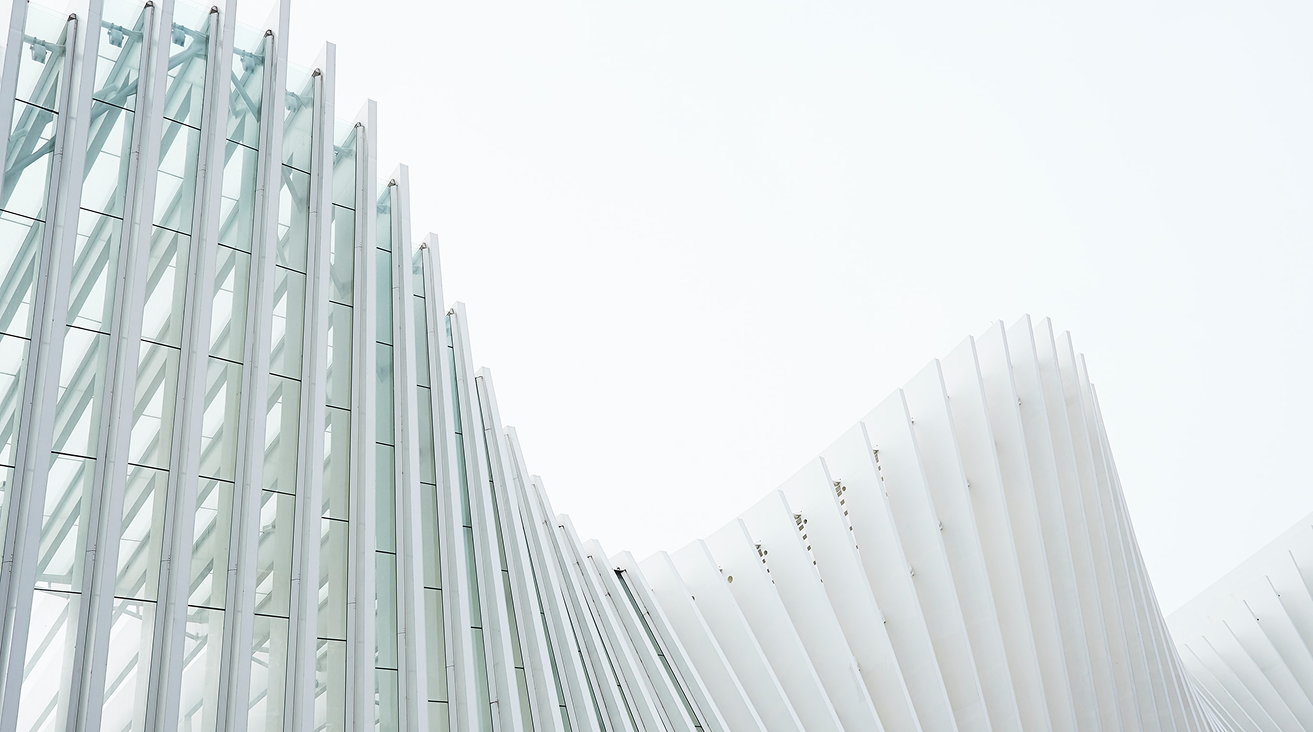
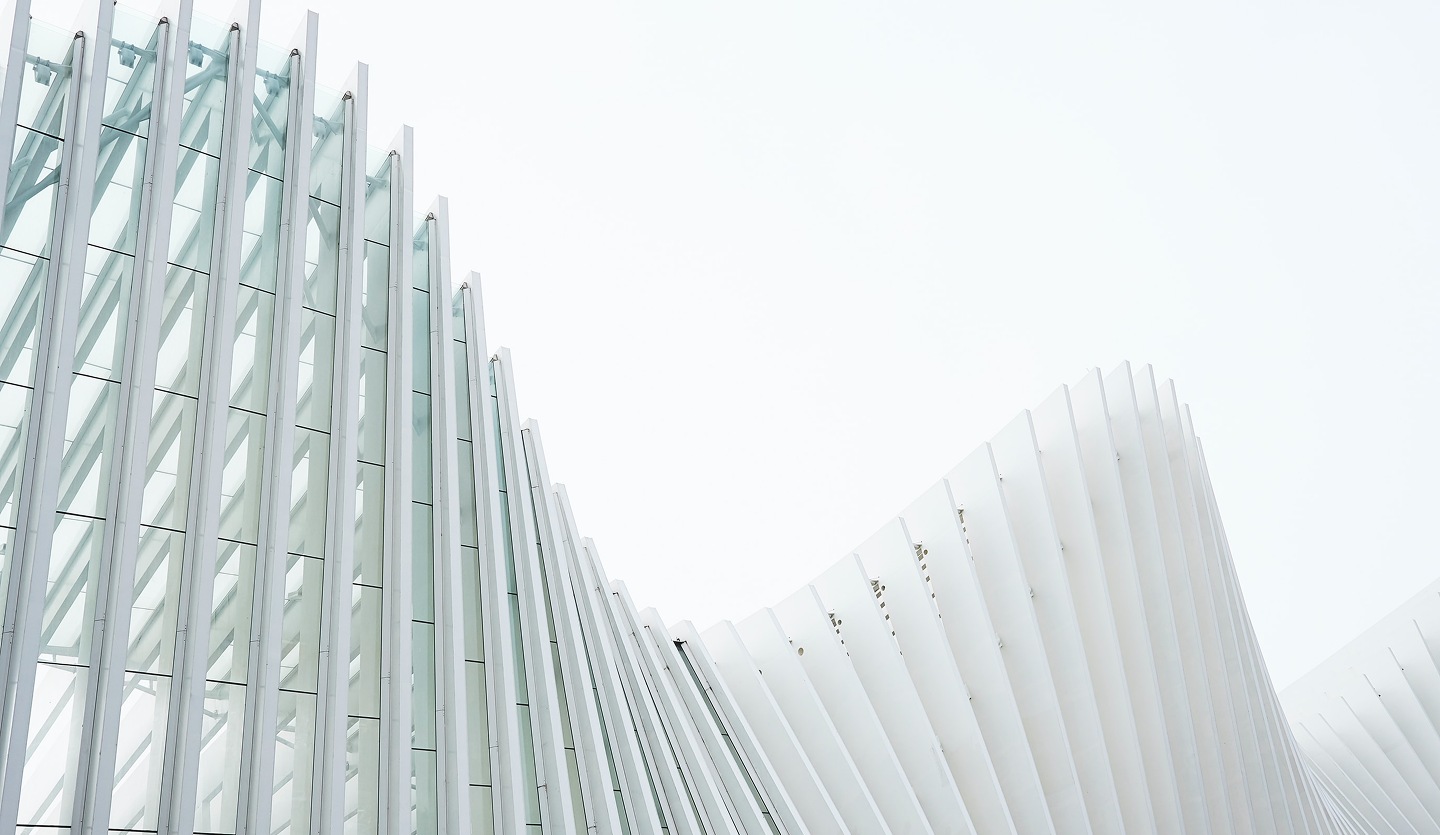
Hotfix page 3 (#86)
* feat: :lipstick: Parte informativa terminada

* feat: :lipstick: Pagina 3 finalizada

* fix: :ambulance: Hotfix finalizado

diff --git a/src/css/page-3.css b/src/css/page-3.css
@@ -5,17 +5,30 @@
     padding: 0;
     box-sizing: border-box;
 }
+body {
+    margin:122px 64px;
+}
 main{
     display: flex;
     flex-direction: column;
     height: 100vh;
+    display: grid;
+    grid-template-columns: 1fr ;
+    grid-template-rows: 300px  732px;
+    grid-template-areas: 
+    "information"
+    "image";
 
 }
 .information{
-    display: flex;
-    padding: 122px 64px 0;
+    display: grid;
+    width: 100%;
+    height: 100%;
     gap: 113px;
     justify-content: space-between;
+    grid-area: information;
+    grid-template-columns: 1fr auto;
+    grid-template-areas: "title subinfo";
 
 }
 
@@ -23,6 +36,7 @@ main{
     display: flex;
     flex-direction: column;
     gap: 16px;
+    grid-area: subinfo;
 }
 
 .information h1{
@@ -30,13 +44,17 @@ main{
     color: var(--color-2);
     font-size: 88px;
     white-space: nowrap;
-    max-width: 50%;
+    grid-area: title;
+    width: 100%;
+    max-width: 700px;
 }
 
 .subinformation p {
     font-family: "Avenir-Roman";
     font-size: 28px;
     color: var(--color-3);
+    width: 100%;
+    max-width: 526px;
 
 }
 
@@ -49,12 +67,23 @@ main{
     color: var(--color-1);
     padding: 16px 32px;
     text-decoration: none;
-    border-radius: 20px;
+    border-radius: 22px;
+}
+
+.image{
+    position: relative;
+    display: flex;
+    align-items: center;
+    justify-content: center;
+    background-color: aqua;
+    grid-area: image;
+    height: 100%;
 }
 
 .image img{
-    margin: 120px 64px 56px ;
-    width: 90%;
-    height: 732px;
-    object-fit: contain;
+    position: absolute;
+    width: 100%;
+    height: 100%;   
+    max-height: 732px;
+
 }
